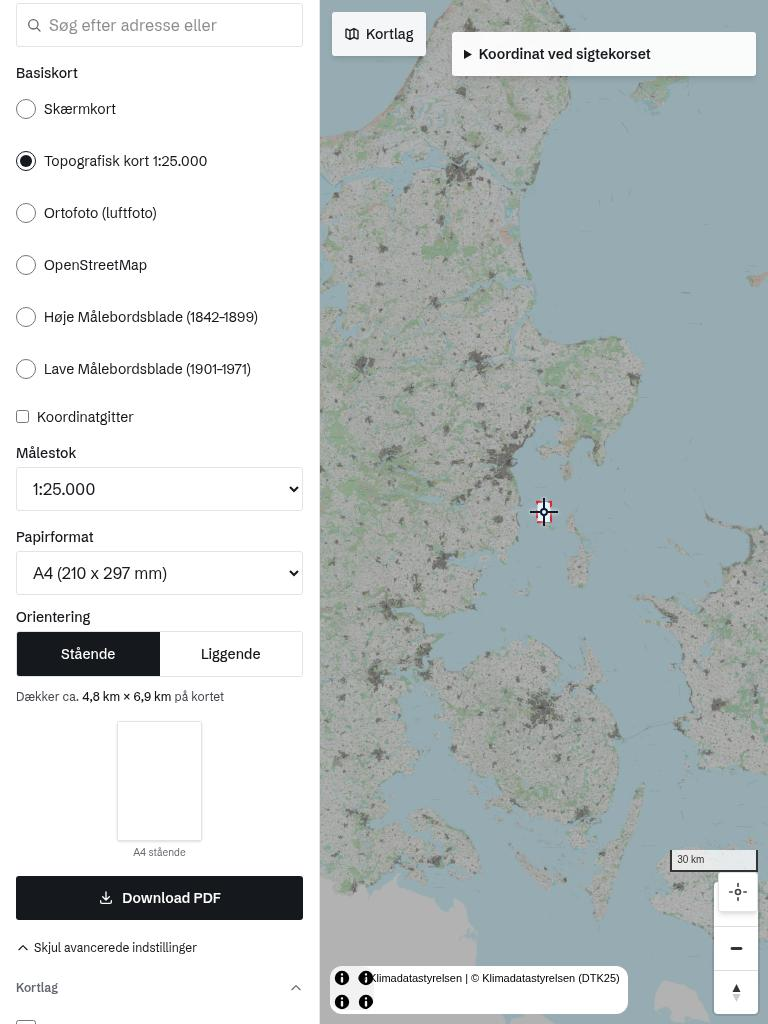
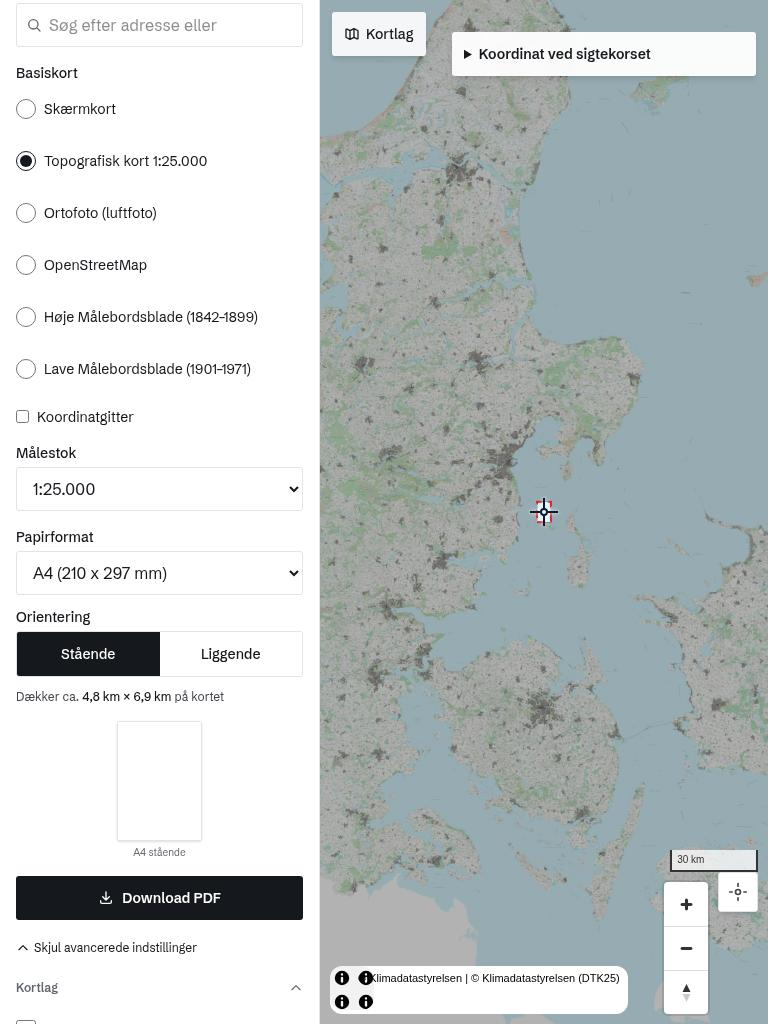
Fix zoom button overlap, group base layers, document exceptions
Axe flagged the MapLibre zoom-in button as partially obscured by the
40px geolocation button stacked above it. Shift the zoom group left on
coarse pointers instead of touching GeolocationButton (out of scope), and
merge the duplicated 44px attribution rules.

Give the map popover's base layer list a labelled radiogroup like the
sidebar one, and add a test that a mouse/tap selects a search result.
NOTES.md lists the targets and 10px texts that remain in files outside
this job's scope, so #23 is only partly resolved. This supersedes the
"Fixes #23" in the previous commit.

Part of #23

Changed region(s): [[0.8438, 0.8438, 1.0, 1.0]]

diff --git a/src/components/map/maplibre-touch.css b/src/components/map/maplibre-touch.css
@@ -1,7 +1,8 @@
 /* Touch targets for MapLibre's own controls (zoom, compass, attribution).
    MapLibre sizes them 29x29 / 24x24; WCAG/Apple/Google want at least 44x44 on touch. */
 @media (pointer: coarse) {
-  .maplibregl-ctrl-group button {
+  .maplibregl-ctrl-group button,
+  .maplibregl-ctrl-attrib-button {
     width: 44px;
     height: 44px;
   }
@@ -11,8 +12,9 @@
     min-width: 44px;
   }
 
-  .maplibregl-ctrl-attrib-button {
-    width: 44px;
-    height: 44px;
+  /* The zoom group is 44px wide and would sit under the (40px) geolocation button
+     stacked above it; shift it left so neither obscures the other (axe target-size). */
+  .maplibregl-ctrl-bottom-right .maplibregl-ctrl-group:has(.maplibregl-ctrl-zoom-in) {
+    margin-right: 60px;
   }
 }

diff --git a/src/components/map/MapControls.tsx b/src/components/map/MapControls.tsx
@@ -60,8 +60,8 @@ export function MapControls() {
         <div className="mt-2 w-64 max-h-[70vh] overflow-y-auto rounded-lg bg-surface/95 p-3 shadow-lg backdrop-blur-sm">
           {/* Base layer */}
           <div className="mb-3">
-            <h2 className="text-xs font-semibold text-text-secondary mb-2">Basiskort</h2>
-            <div className="space-y-1">
+            <h2 id="map-baseLayer-label" className="text-xs font-semibold text-text-secondary mb-2">Basiskort</h2>
+            <div role="radiogroup" aria-labelledby="map-baseLayer-label" className="space-y-1">
               {BASE_LAYERS.map((layer) => (
                 <div key={layer.value}>
                   <label className="flex items-center gap-2 cursor-pointer pointer-coarse:min-h-11">

diff --git a/src/components/search/SearchBar.test.tsx b/src/components/search/SearchBar.test.tsx
@@ -75,4 +75,13 @@ describe("SearchBar keyboard flow", () => {
     await press(input, "Escape");
     expect(host.querySelector("[role=listbox]")).toBeNull();
   });
+
+  it("selects a result on mouse/tap", async () => {
+    await openResults();
+    const opt = host.querySelectorAll("[role=option]")[1];
+    await act(async () => {
+      opt.dispatchEvent(new MouseEvent("mousedown", { bubbles: true }));
+    });
+    expect(flyTo).toHaveBeenCalledWith(11, 56);
+  });
 });

diff --git a/docs/screenshots/issue-23/NOTES.md b/docs/screenshots/issue-23/NOTES.md
@@ -1,0 +1,23 @@
+# Issue #23 / #24: measured state and known exceptions
+
+`scripts/audit-touch-a11y.mjs` (Playwright + axe 4.14, 360/390/768 px) writes `after/report.json`.
+Axe at 390 px: `target-size`, `select-name`, `label`, `nested-interactive` and `landmark-one-main` give 0 findings.
+`region` findings remain; they belong to the drawer issue.
+
+## Still under 44 px (files outside the scope of this job)
+
+- `Sidebar.tsx`, `ThemeToggle.tsx`: "Avancerede indstillinger", accordion headers (24 px high), footer links, theme buttons, the master checkbox rows (20 px high).
+- `GeolocationButton.tsx`: "Find min position" is 40x40. It overlapped the zoom buttons (axe `target-size`); the zoom group is now shifted left in `maplibre-touch.css` instead.
+- Checkbox rows in `UtmGridSettings.tsx` (MGRS branch).
+
+These need their own changes, so #23 is only partly resolved ("Part of #23").
+
+## Text under 12 px (outside scope)
+
+`PrintPreview.tsx` ("A4 stående"), `FileImport.tsx` ("GPX, KML, GeoJSON") and other `text-[10px]` in sidebar panels, plus `ThemeToggle.tsx`.
+MapLibre's own scale bar and attribution text are the documented exception.
+
+## Other notes
+
+- `BearingSelector.tsx` was touched because its slider and number field lacked labels (`label` rule).
+- The headings in `MapControls.tsx` stay `h2`: with `h3`, axe reports `heading-order` when the layer popover is open.
